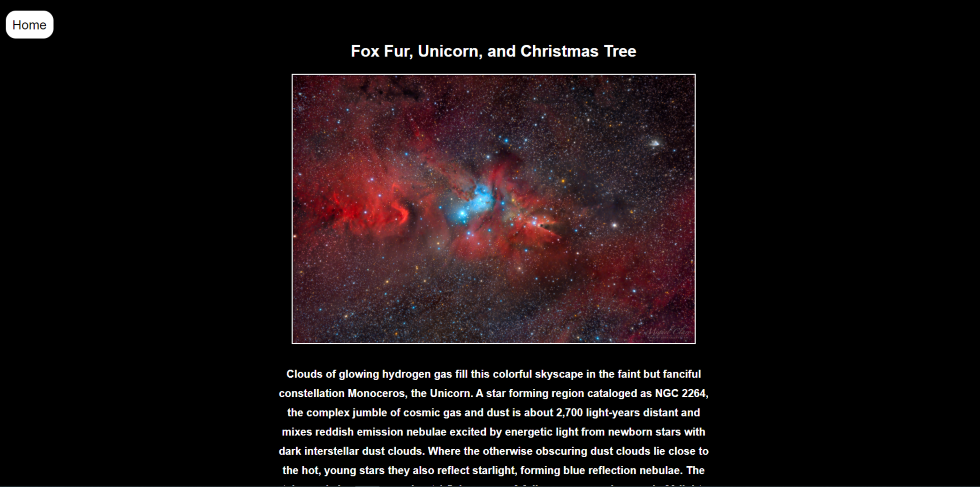
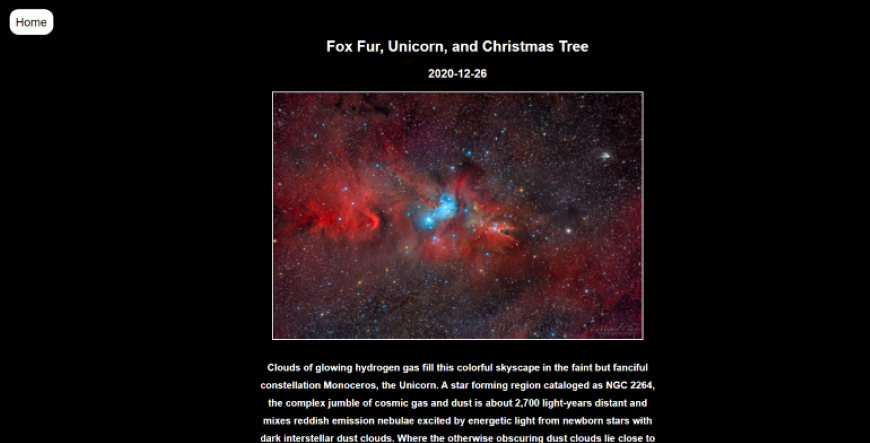
Added the date

Changed region(s): [[0.0, 0.1467, 1.0, 1.0], [0.3414, 0.088, 0.6828, 0.1174], [0.0, 0.0, 0.0621, 0.088]]

diff --git a/src/components/Pic.js b/src/components/Pic.js
@@ -2,6 +2,7 @@ const Pic = ({picdata}) => {
     return (
         <div className="Pic">
         <h2>{picdata.title}</h2>
+        <h3>{picdata.date}</h3>
 
         {picdata.media_type === "image" ? 
             <img src={picdata.url} alt="" className="NasaPicture" onClick={()=>{
